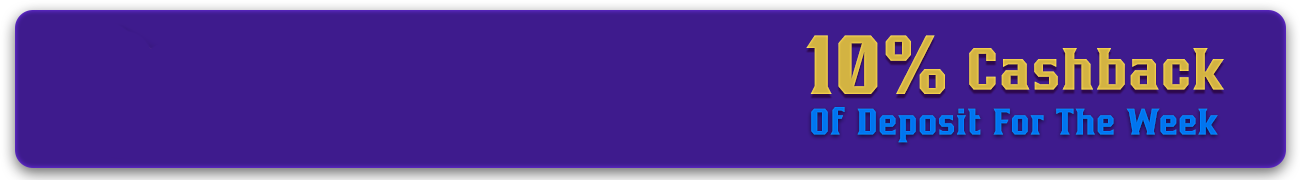
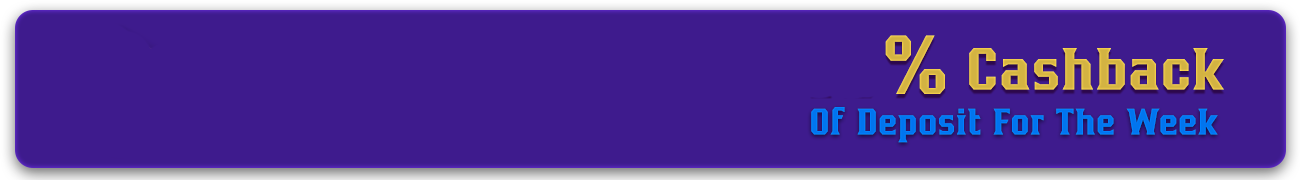
revised_custom_cashback

Changed region(s): [[0.6154, 0.1944, 0.6769, 0.5556]]

diff --git a/src/windows/BonusRank.jsx b/src/windows/BonusRank.jsx
@@ -66,7 +66,7 @@ export class BonusRank extends React.Component {
     this.onClose = this.onClose.bind(this);
     this.state = {
       rankList: [
-        { id: 1, rank: 1, name: "BigDog23", score: 100, pic: null },
+        { id: 1, rank: 1, name: "BigDog23", score: 92, pic: null },
         { id: 2, rank: 2, name: "BlackBear", score: 90, pic: null },
         { id: 3, rank: 3, name: "Tiger", score: 80, pic: null },
         { id: 4, rank: 4, name: "Jeus K", score: 70, pic: null },
@@ -209,27 +209,21 @@ export class BonusRank extends React.Component {
             <div className="rank-wrapper">
               {this.state.rankList.map(user => (
                 <div className="rank-control" key={user.id}>
-                  {user.rank > 3 ?
-                    <div className="rank-num-container">
-                      <img src="images/frenzy/bonus/rank_bg_4_20.png" alt="" />
-                      <div className="rank-num">
-                        <img className="rank-frame" src="images/frenzy/bonus/rank_frame_4_20.png" alt="" />
-                        <span>{user.rank}</span>
-                      </div>
-                    </div> :
-                    <img
-                      className="rank-bg"
-                      draggable={false}
-                      src={`images/frenzy/bonus/rank_${user.rank}.png`}
-                      alt={`Rank ${user.rank}`}
-                    />}
-                  <div className="user-container">
-                    <img
-                      className="user-pic"
-                      src={`images/frenzy/bonus/${user.pic ? user.pic : "default_avatar.png"}`}
-                      alt="User"
-                    />
-                    <span>{user.name}</span>
+                  <img className="rank-bg" src={`images/frenzy/bonus/${user.rank > 3 ? "rank_4_20_bg" : ("rank_" + user.rank + "_bg")}.png`} alt="" />
+                  <div className="rank-content">
+                    <div className="rank-num">
+                      {user.rank > 3
+                        ? <><img src="images/frenzy/bonus/rank_frame_4_20.png" alt="" /><span>{user.rank}</span></>
+                        : <img src={`images/frenzy/bonus/rank${user.rank}.png`} alt="" />}
+                    </div>
+                    <div className="user-info">
+                      <img src={user.pic ? user.pic : "images/frenzy/bonus/default_avatar.png"} alt="" />
+                      <span>{user.name}</span>
+                    </div>
+                    <div className="cashback-info">
+                      <span>{user.score}%</span>
+                    </div>
+
                   </div>
                 </div>
               ))}

diff --git a/src/css/bonusrank.css b/src/css/bonusrank.css
@@ -133,51 +133,47 @@
     text-align: center;
 }
 
-.rank-control .user-container {
+.rank-control > .rank-content {
     position: absolute;
-    top: 10%;
-    left: 20%;
+    top: 10px;
     display: flex;
-    justify-content: start;
+    justify-content: left;
     align-items: center;
-    gap: 10%;
-    color: white;
 }
 
-.rank-control .user-container span {
-    font-size: 50px;
-    white-space: nowrap;
-    text-shadow: black 4px 6px 6px;
-}
-
-.carousel__image .rank-bg {
+.rank-content > .rank-num {
+    padding: 0 30px;
+    display: flex;
+    justify-content: center;
+    align-items: center;
     position: relative;
-    width: fit-content;
-    height: fit-content;
 }
 
-.rank-num-container .rank-num {
+.rank-content > .rank-num > span {
     position: absolute;
-    z-index: 20;
-    top: 8px;
-    width: 160px;
-    height: 160px;
-    left: 43px;
-    display: flex;
-    justify-content: center;
-    align-items: center;
-}
-
-.rank-num-container .rank-num span {
-    position: absolute;
+    padding-right: 4px;
+    text-align: center;
+    font-size: 60px;
     color: white;
-    width: 155px;
-    height: 160px;
-    left: 0;
+    text-shadow: 0 0 10px black;
+}
+
+.rank-content > .user-info {
     display: flex;
-    justify-content: center;
+    justify-content: left;
+    width: 640px;
     align-items: center;
-    top:0;
-    font-size: 58px;
-    text-shadow: 0 0 6px black;
+    gap: 20px;
+    font-size: 50px;
+    color: white;
+    text-shadow: 0 4px 12px black;
+}
+
+.rank-content > .cashback-info {
+    position: absolute;
+    right: -70px;
+    top: 10px;
+    font-size: 80px;
+    color: #d3b342;
+    text-shadow: 0 4px 12px black;
 }
